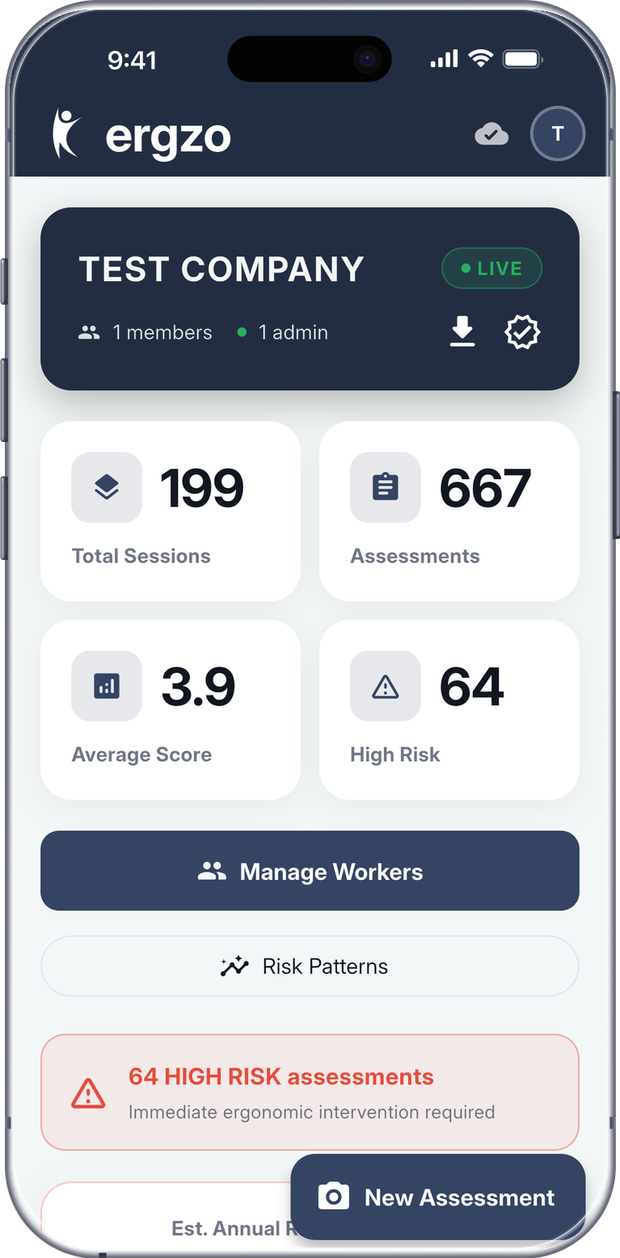
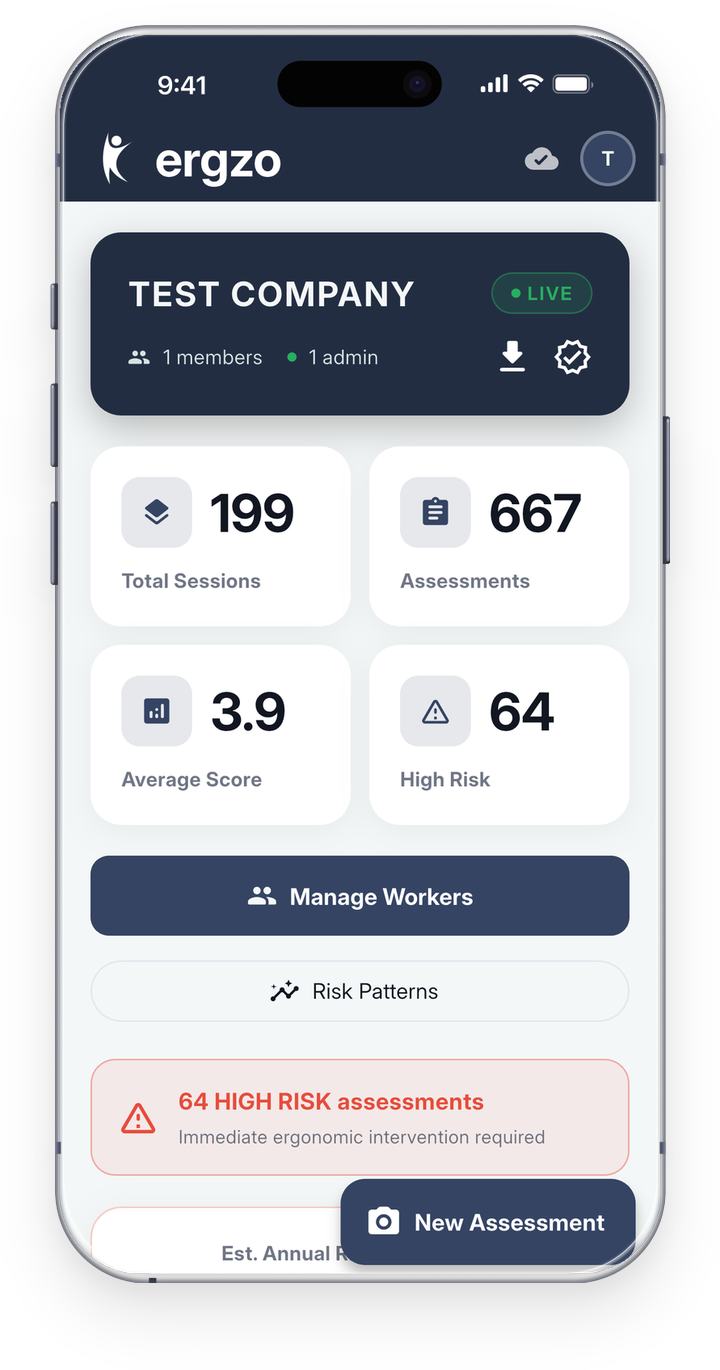
Add files via upload

diff --git a/index.html b/index.html
@@ -179,15 +179,14 @@
     .risk-vhi{background:rgba(153,27,27,.25);color:#fca5a5;border:1px solid rgba(153,27,27,.3)}
     .risk-bar-label{font-size:12px;color:rgba(214,226,226,.4);font-weight:400;width:100%;text-align:center;margin-top:2px}
     /* phone mockups (frame + screen baked into each PNG) — sizes match original */
-    .feature-iphone{position:relative;width:240px;max-width:unset;display:block}
-    .feature-iphone.side{width:210px}
-    .feature-iphone.center{width:240px}
-    .feature-visual-wrap .feature-iphone{width:210px}
-    .phone-img{display:block;width:100%;height:auto;
-      filter:drop-shadow(0 26px 44px rgba(0,0,0,.38)) drop-shadow(0 8px 18px rgba(0,0,0,.26))}
+    .feature-iphone{position:relative;width:279px;max-width:unset;display:block}
+    .feature-iphone.side{width:244px}
+    .feature-iphone.center{width:279px}
+    .feature-visual-wrap .feature-iphone{width:244px}
+    .phone-img{display:block;width:100%;height:auto}
     @media(max-width:640px){
-      .feature-iphone,.feature-iphone.side{width:25vw}
-      .feature-iphone.center{width:29vw}
+      .feature-iphone,.feature-iphone.side{width:29vw}
+      .feature-iphone.center{width:34vw}
       .feature-visual-wrap .feature-iphone{width:100%;max-width:220px}
       .tools-grid{grid-template-columns:repeat(3,1fr);gap:8px}.hero-risk-bar{gap:6px}.risk-bar-label{font-size:11px}}
     /* HERO */
@@ -375,10 +374,10 @@
       .contact-inner{gap:48px}
     }
     @media(max-width:900px){
-      .feature-iphone{width:200px}
-      .feature-iphone.side{width:180px}
-      .feature-iphone.center{width:200px}
-      .feature-visual-wrap .feature-iphone{width:180px}
+      .feature-iphone{width:232px}
+      .feature-iphone.side{width:209px}
+      .feature-iphone.center{width:232px}
+      .feature-visual-wrap .feature-iphone{width:209px}
       .feat-grid{grid-template-columns:repeat(2,1fr)}
       .feature-block{grid-template-columns:1fr;gap:40px}
       .feature-block.reverse .feature-content{order:0}
@@ -390,15 +389,14 @@
       .industry-grid{grid-template-columns:repeat(2,auto)}
     }
     @media(max-width:640px){
-      .phones-row{gap:8px;padding:0 2%;justify-content:center;align-items:flex-end;overflow:visible}
+      .phones-row{gap:0;padding:0 1%;justify-content:center;align-items:flex-end;overflow:visible}
       .iphone-wrap{transform:perspective(700px) rotateY(8deg) translateY(10px)!important;flex-shrink:1;min-width:0}
       .iphone-wrap:last-child{transform:perspective(700px) rotateY(-8deg) translateY(10px)!important}
       .iphone-wrap.center-phone{transform:none!important}
       .iphone-wrap:hover,.iphone-wrap:last-child:hover,.iphone-wrap.center-phone:hover{transform:inherit!important}
-      .phone-img{filter:drop-shadow(0 14px 22px rgba(0,0,0,.34))}
-      .feature-iphone,.feature-iphone.side{width:25vw}
-      .feature-iphone.center{width:29vw}
-      .feature-visual-wrap .feature-iphone{width:100%;max-width:200px}
+      .feature-iphone,.feature-iphone.side{width:29vw}
+      .feature-iphone.center{width:34vw}
+      .feature-visual-wrap .feature-iphone{width:100%;max-width:232px}
       footer{padding:44px 6% 24px}
       .footer-top{flex-direction:column;gap:26px;margin-bottom:32px}
       .footer-brand{flex:1 1 auto}
@@ -431,9 +429,9 @@
       .industry-pill{padding:10px 16px;font-size:13px}
     }
     @media(max-width:400px){
-      .feature-iphone,.feature-iphone.side{width:24vw}
-      .feature-iphone.center{width:27vw}
-      .feature-visual-wrap .feature-iphone{width:100%;max-width:200px}
+      .feature-iphone,.feature-iphone.side{width:28vw}
+      .feature-iphone.center{width:31vw}
+      .feature-visual-wrap .feature-iphone{width:100%;max-width:232px}
       section{padding:64px 4%}
       .users-grid,.blog-grid,.feat-grid{grid-template-columns:1fr}
       .user-card,.feat-card{padding:24px 18px}
